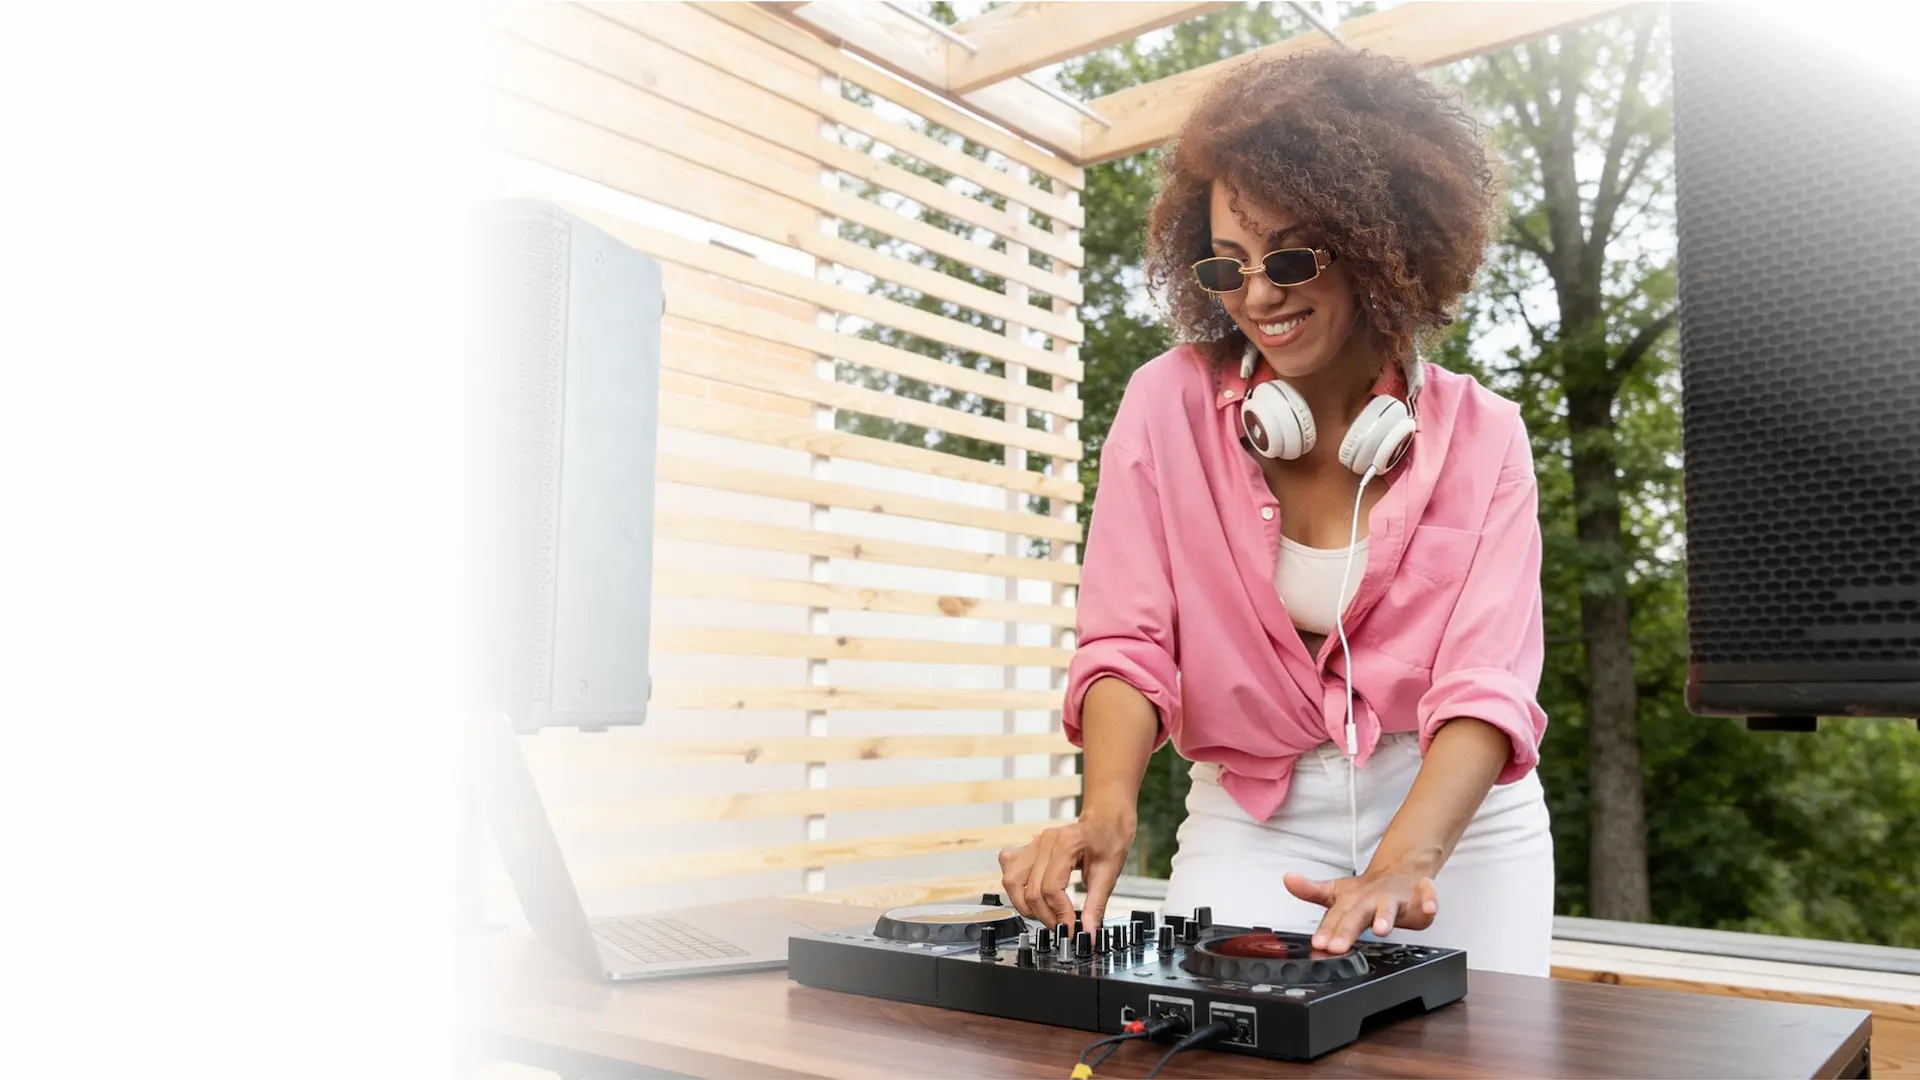
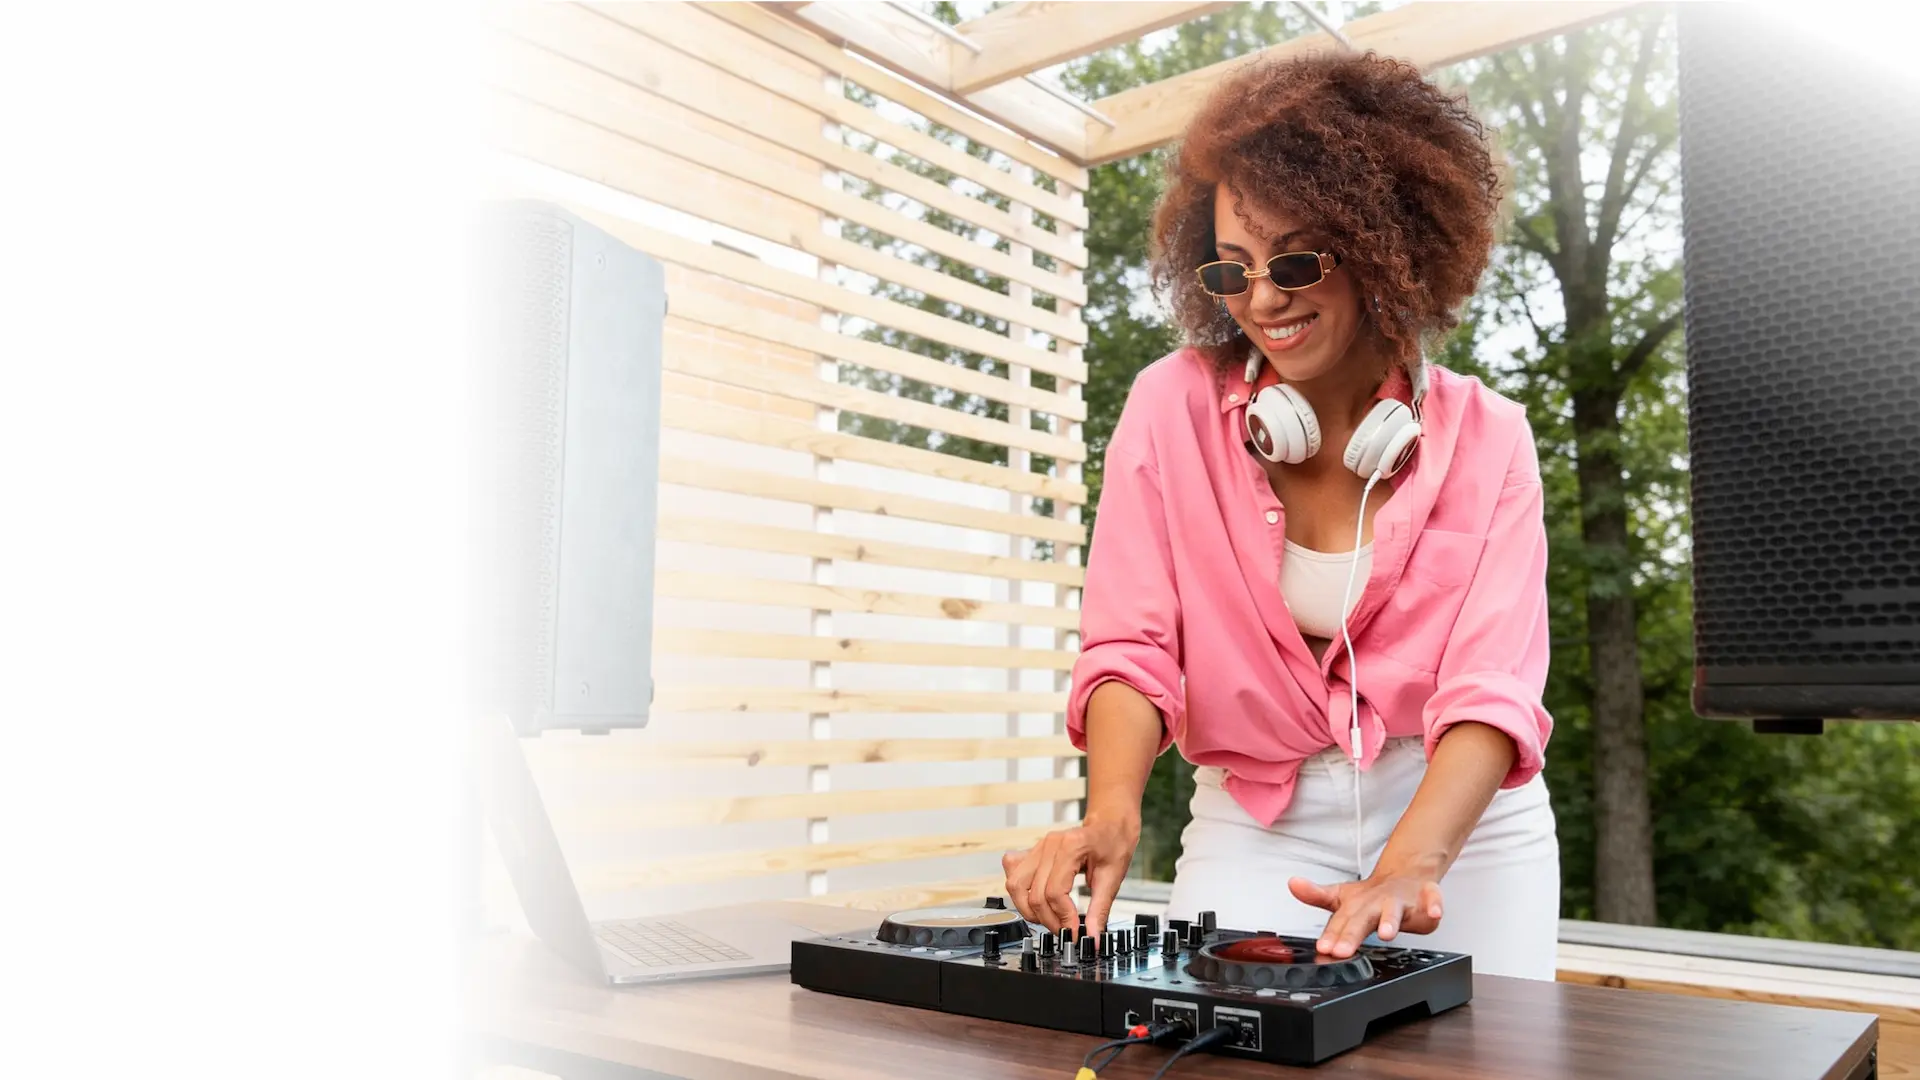
feat: implement Header and game pages, update global styles with new animations and colors

diff --git a/src/styles/global.css b/src/styles/global.css
@@ -25,9 +25,23 @@
   --color-purple-light: #753bbd;
   --color-purple-dark: #772583;
   --color-pink-light: #d787b5;
+  --color-pink: #d9609a;
 
   --font-brandon: "Brandon", sans-serif;
   --font-georgia: Georgia, serif;
 
   --breakpoint-xs: 26rem;
+
+  --animate-bounce-diagonal: bounce-diagonal 1s infinite;
+}
+
+@keyframes bounce-diagonal {
+  0%, 100% {
+    transform: translate(25%, -25%);
+    animation-timing-function: cubic-bezier(0.8, 0, 1, 1);
+  }
+  50% {
+    transform: translate(0, 0);
+    animation-timing-function: cubic-bezier(0, 0, 0.2, 1);
+  }
 }